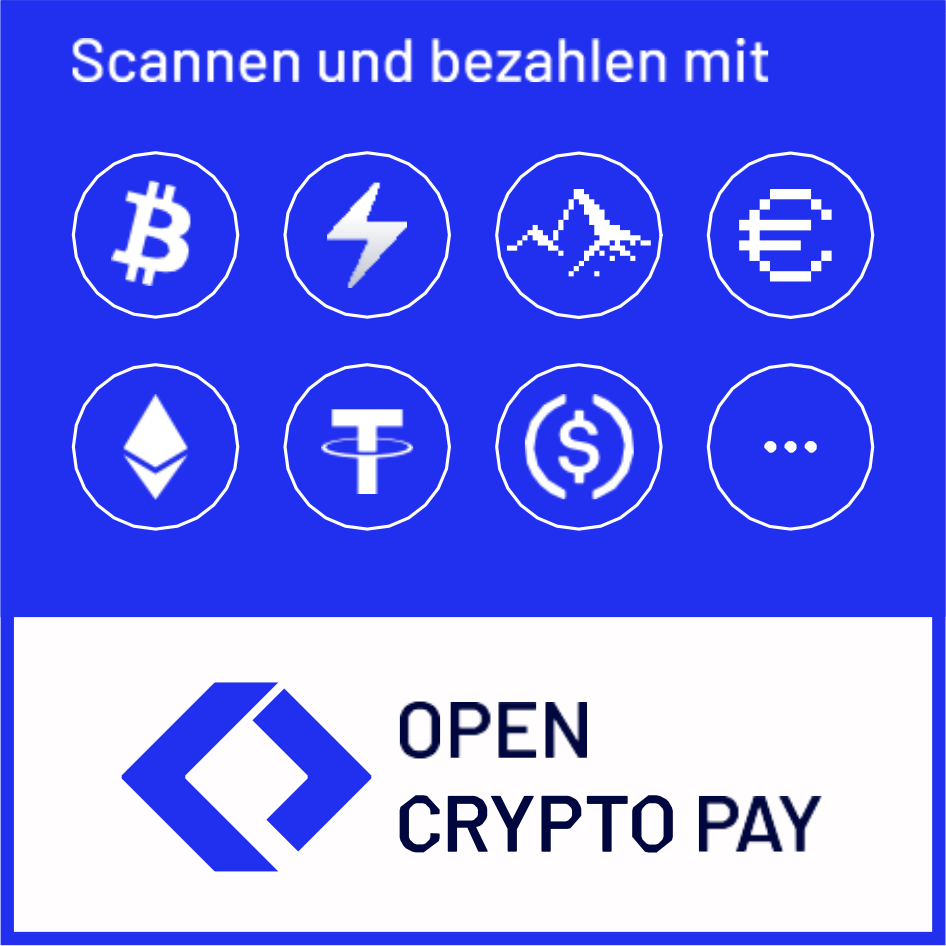
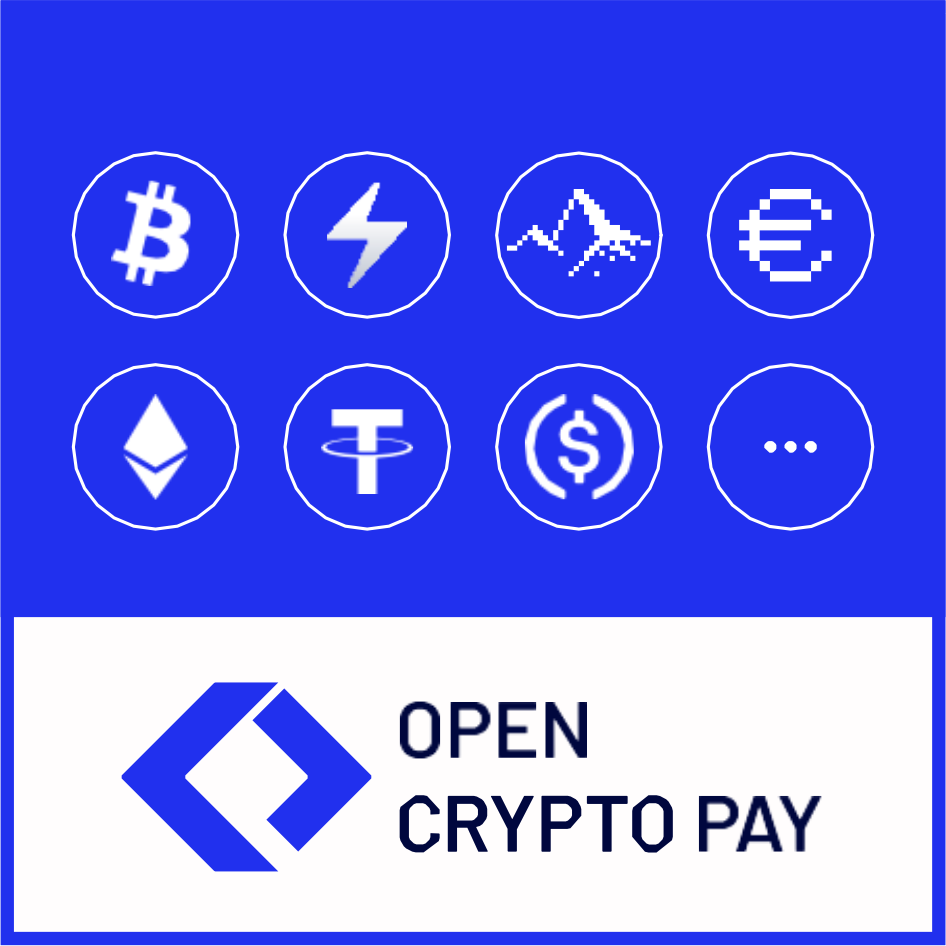
[DEV-4026] offer stickers in multiple languages

Changed region(s): [[0.0613, 0.0307, 0.8277, 0.092]]

diff --git a/src/subdomains/core/payment-link/services/payment-link.service.ts b/src/subdomains/core/payment-link/services/payment-link.service.ts
@@ -1,5 +1,6 @@
 import { ConflictException, ForbiddenException, Injectable, NotFoundException } from '@nestjs/common';
 import { readFileSync } from 'fs';
+import { I18nService } from 'nestjs-i18n';
 import { join } from 'path';
 import PDFDocument from 'pdfkit';
 import * as QRCode from 'qrcode';
@@ -38,6 +39,7 @@ export class PaymentLinkService {
     private readonly countryService: CountryService,
     private readonly sellService: SellService,
     private readonly c2bPaymentLinkService: C2BPaymentLinkService,
+    private readonly i18n: I18nService,
   ) {}
 
   async getOrThrow(
@@ -450,13 +452,23 @@ export class PaymentLinkService {
     return this.getOrThrow(userId, linkId, externalLinkId, externalPaymentId);
   }
 
-  async generateOcpStickersPdf(routeIdOrLabel: string, externalIds?: string[], ids?: number[]): Promise<Buffer> {
+  async generateOcpStickersPdf(
+    routeIdOrLabel: string,
+    externalIds?: string[],
+    ids?: number[],
+    lang?: string,
+  ): Promise<Buffer> {
     const linksFromDb = await this.sellService.getPaymentLinksFromRoute(routeIdOrLabel, externalIds, ids);
     const linkMapByExternalId = new Map(linksFromDb.map((link) => [link.externalId, link]));
     const linkMapById = new Map(linksFromDb.map((link) => [link.id, link]));
     const linksByExternalId = externalIds?.map((extId) => linkMapByExternalId.get(extId)).filter(Boolean) || [];
     const linksById = ids?.map((id) => linkMapById.get(id)).filter(Boolean) || [];
     const links = [...linksByExternalId, ...linksById];
+
+    // Translated sticker title
+    const stickerTitle = this.i18n.translate('payment.sticker.pay_with_crypto', {
+      lang: lang?.toLowerCase() || 'en',
+    });
 
     // Blue OCP Image
     const stickerPath = join(process.cwd(), 'assets', 'ocp-sticker.png');
@@ -532,7 +544,7 @@ export class PaymentLinkService {
           });
 
           // Add QR-Code
-          pdf.image(qrBuffer, x + pngWidth + qrPadding - borderWidth / 2, y + qrPadding, {
+          pdf.image(qrBuffer, x + pngWidth + qrPadding, y + qrPadding, {
             width: qrWidth - qrPadding * 2,
             height: stickerHeight - qrPadding * 2,
           });
@@ -540,7 +552,7 @@ export class PaymentLinkService {
           // Add OCP Logo
           pdf.image(
             ocpLogoBuffer,
-            x + pngWidth + qrPadding - borderWidth / 2 + (qrWidth - qrPadding * 2 - ocpLogoSize) / 2,
+            x + pngWidth + qrPadding + (qrWidth - qrPadding * 2 - ocpLogoSize) / 2,
             y + qrPadding + (stickerHeight - qrPadding * 2 - ocpLogoSize) / 2,
             {
               width: ocpLogoSize,
@@ -548,8 +560,14 @@ export class PaymentLinkService {
             },
           );
 
+          // Add title
+          pdf.fontSize(10).font('Helvetica').fillColor('white');
+          const labelX = x + 12;
+          const labelY = y + 8;
+          pdf.text(stickerTitle, labelX, labelY);
+
           // Add External ID
-          pdf.fontSize(4).font('Helvetica');
+          pdf.fontSize(4).font('Helvetica').fillColor('black');
           const textWidth = pdf.widthOfString(externalId ?? id.toString());
           const textX = x + pngWidth - textWidth - 5;
           const textY = y + stickerHeight - 7;

diff --git a/src/subdomains/core/payment-link/controllers/payment-link.controller.ts b/src/subdomains/core/payment-link/controllers/payment-link.controller.ts
@@ -285,10 +285,12 @@ export class PaymentLinkController {
   @ApiQuery({ name: 'route', description: 'Route ID or label', required: true })
   @ApiQuery({ name: 'externalIds', description: 'Comma-separated external IDs', required: false })
   @ApiQuery({ name: 'ids', description: 'Comma-separated payment link IDs', required: false })
+  @ApiQuery({ name: 'lang', description: 'Language code', required: false })
   async generateOcpStickers(
     @Query('route') route: string,
     @Query('externalIds') externalIds: string,
     @Query('ids') ids: string,
+    @Query('lang') lang: string,
     @Res({ passthrough: true }) res: Response,
   ): Promise<StreamableFile> {
     if (!externalIds && !ids) {
@@ -297,7 +299,7 @@ export class PaymentLinkController {
 
     const idArray = ids?.split(',').map((id) => +id);
     const externalIdArray = externalIds?.split(',').map((id) => id.trim());
-    const pdfBuffer = await this.paymentLinkService.generateOcpStickersPdf(route, externalIdArray, idArray);
+    const pdfBuffer = await this.paymentLinkService.generateOcpStickersPdf(route, externalIdArray, idArray, lang);
 
     res.set({
       'Content-Type': 'application/pdf',
